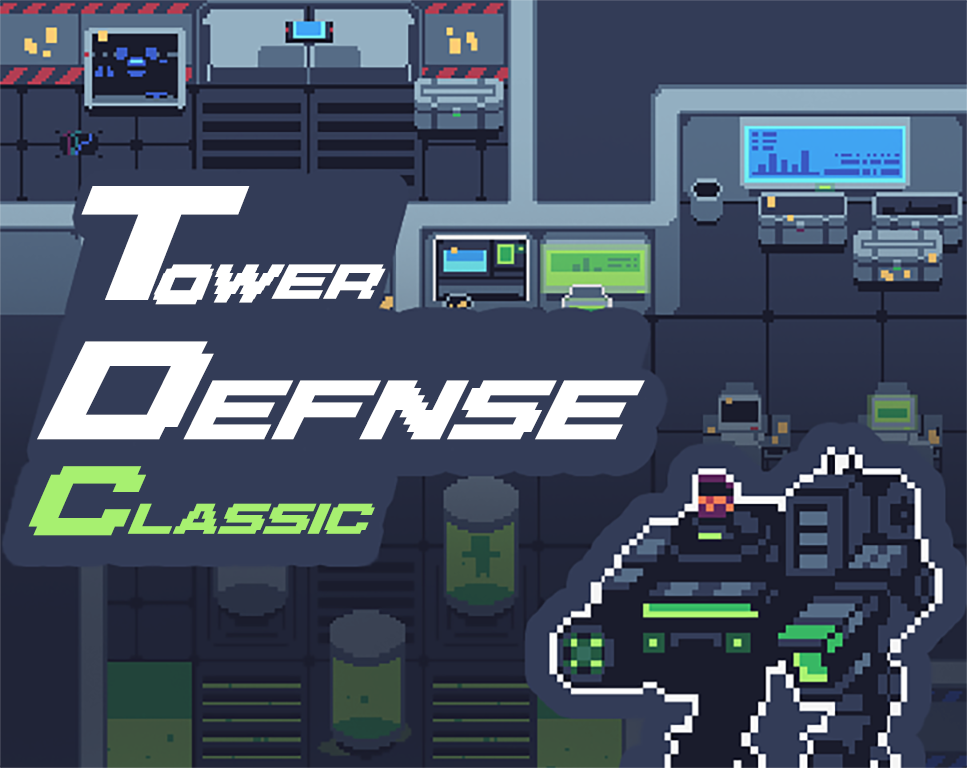
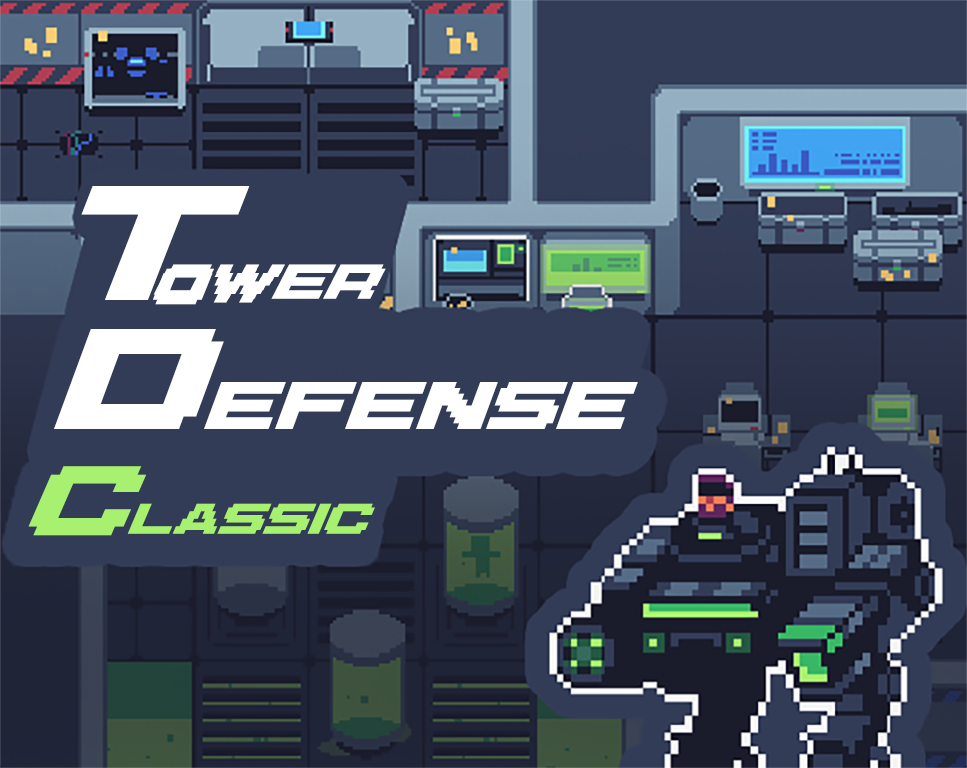
fixed spelling error in title screen, game win scene works correctly

Changed region(s): [[0.031, 0.4062, 0.6825, 0.5938]]

diff --git a/src/scenes/MainGame.ts b/src/scenes/MainGame.ts
@@ -17,7 +17,7 @@ import '../enemies/MobTier2';
 
 // Utitilies
 import findPath from '../utils/findPath';
-import { startBuildPhase, dynamicPhase} from '../utils/mobUtils';
+import { startBuildPhase, dynamicPhase } from '../utils/mobUtils';
 // import { preprocessMapData } from "../utils/processMap";
 
 // States from Mobx
@@ -90,7 +90,7 @@ export class MainGame extends Phaser.Scene {
 
     this.notGroundLayer = map.createLayer('notGround', allLayers) as Phaser.Tilemaps.TilemapLayer;
     this.notGroundLayer.setTint();
-   
+
     // map.createLayer('Tile Layer 1', allLayers);
     this.wallsLayer = map.createLayer('Wall Layer', allLayers) as Phaser.Tilemaps.TilemapLayer;
     // this.wallsLayer.setDepth(100);
@@ -102,8 +102,8 @@ export class MainGame extends Phaser.Scene {
 
     // turn on collision based on tiled property
     this.wallsLayer.setCollisionByProperty({ collides: true });
-    this.groundLayer.setCollisionByProperty({ collides: false})
-       
+    this.groundLayer.setCollisionByProperty({ collides: false });
+
 
     // Collision Debugging // 
     // debugDraw(this.wallsLayer, this)
@@ -112,10 +112,10 @@ export class MainGame extends Phaser.Scene {
     this.mobGroup = this.physics.add.group();
 
     // I think still some intial logic here. 
-    startBuildPhase(this)
+    startBuildPhase(this);
 
 
-      // Start in build Phase!
+    // Start in build Phase!
     // startBuildPhase(this);
 
 
@@ -136,16 +136,16 @@ export class MainGame extends Phaser.Scene {
 
     // reaction(
     //   () => Array.from(towerState.activeTowers.entries()),
-        // create Tower Layer 
+    // create Tower Layer 
     // );
-  
+
 
   };
-  
 
-// Create over ->
 
-// Could make a mob x reaction?
+  // Create over ->
+
+  // Could make a mob x reaction?
   checkPlayerHealth() {
     this.time.addEvent({
       delay: 100,
@@ -163,53 +163,45 @@ export class MainGame extends Phaser.Scene {
       loop: true,
     });
   }
-  
-// if mobx state has no mobs (all dead) enter build stage
 
-// Always true on a reset?
+  // if mobx state has no mobs (all dead) enter build stage
+
+  // Always true on a reset?
   checkEndCombat() {
 
     // Only care about this in combat phase
     if (gamephase.stage !== 'combat') {
       return;
-    }
+    };
     const mobEntries = Array.from(mobStore.mobs.entries());
-    
+
+    // If there are no mobs left, transition to the build phase
     if (mobEntries.length === 0) {
-      // If there are no mobs left, transition to the build phase
-      // If less than Max wave game continues    
       
+      // Game win condition
+      if (gamephase.wave >= 5) {
+        this.scene.stop('ui');
+        this.scene.start('game_win');
+        this.bgm.stop();
+      }
+      
+      // If less than Max wave game continues    
       gamephase.stage = 'build';
       gamephase.wave += 1;
       console.log('incremented in checkend');
-
     }
-
-        // if (gamephase.wave < 2 ) {
-        // gamephase.stage = 'build';
-        // gamephase.wave += 1;
-
-      // Winning condition // Test with Game over right now but this is the win
-    //   } else {
-    //     this.restartGame();
-    //     this.scene.stop('ui');
-    //     this.bgm.stop();
-    //     const deathSound = this.sound.add('death_sound');
-    //     deathSound.play();
-    //     this.scene.start('game_win');
-    // };
 
     mobEntries.forEach(entry => {
       const mob = entry[1];
       // console.log("mob", mob)
-  
+
       this.calculateMobPath(mob);
-      
+
     });
   };
 
 
-  
+
   // restartGame() {
   //   this.time.removeAllEvents(); // stops all timer events
   //   playerState.reset();
@@ -218,7 +210,7 @@ export class MainGame extends Phaser.Scene {
   //   gamephase.reset();
   // }
 
-  calculateMobPath (mob: MobTier1) {
+  calculateMobPath(mob: MobTier1) {
 
     const startVec = this.groundLayer.worldToTileXY(mob.x, mob.y);
     // console.log(startVec);
@@ -245,7 +237,7 @@ export class MainGame extends Phaser.Scene {
         // Code the deletion of mob here 
         mob.decreaseHealth(mob.health, mob.getData('id'), this);
         playerState.takeDamage(10);
-      }   
+      }
 
     });
   }

diff --git a/src/scenes/UI.ts b/src/scenes/UI.ts
@@ -93,26 +93,26 @@ export class UI extends Phaser.Scene {
         this.isPlacingTower = false;
 
         // TowerSprite pointerover and pointerout listeners 
-        towerSprite.on('pointerover', () => {
-          if (towerObj.id === 2) {
-            handlePointerOver(basicTowerIcon, 1.1, 1344, 160, 'pointer', this, this.clickSFX);
-          } else if (towerObj.id === 3) {
-            handlePointerOver(longRangeTowerIcon, 1.1, 1441, 160, 'pointer', this, this.clickSFX);
-          } else {
-            handlePointerOver(machineGunTowerIcon, 1.1, 1537, 160, 'pointer', this, this.clickSFX);
-          }
-        });
-
-        towerSprite.on('pointerout', () => {
-          if (towerObj.id === 2) {
-            handlePointerOut(basicTowerIcon, 1, 1344, 160, 'default', this);
-          } else if (towerObj.id === 3) {
-            handlePointerOut(longRangeTowerIcon, 1, 1441, 160, 'default', this);
-          } else {
-            handlePointerOut(machineGunTowerIcon, 1, 1537, 160, 'default', this);
-          }
-        });
-
+          towerSprite.on('pointerover', () => {
+            if (towerObj.id === 2) {
+              handlePointerOver(basicTowerIcon, 1.1, 1344, 160, 'pointer', this, this.clickSFX);
+            } else if (towerObj.id === 3) {
+              handlePointerOver(longRangeTowerIcon, 1.1, 1441, 160, 'pointer', this, this.clickSFX);
+            } else {
+              handlePointerOver(machineGunTowerIcon, 1.1, 1537, 160, 'pointer', this, this.clickSFX);
+            }
+          });
+  
+          towerSprite.on('pointerout', () => {
+            if (towerObj.id === 2) {
+              handlePointerOut(basicTowerIcon, 1, 1344, 160, 'default', this);
+            } else if (towerObj.id === 3) {
+              handlePointerOut(longRangeTowerIcon, 1, 1441, 160, 'default', this);
+            } else {
+              handlePointerOut(machineGunTowerIcon, 1, 1537, 160, 'default', this);
+            }
+          });
+  
         // Tower Creation
         towerSprite.on('pointerdown', (pointer: any) => {
           if (!(gamephase.stage === 'combat')) { // Tower Placement Only Allowed in Build Phase
